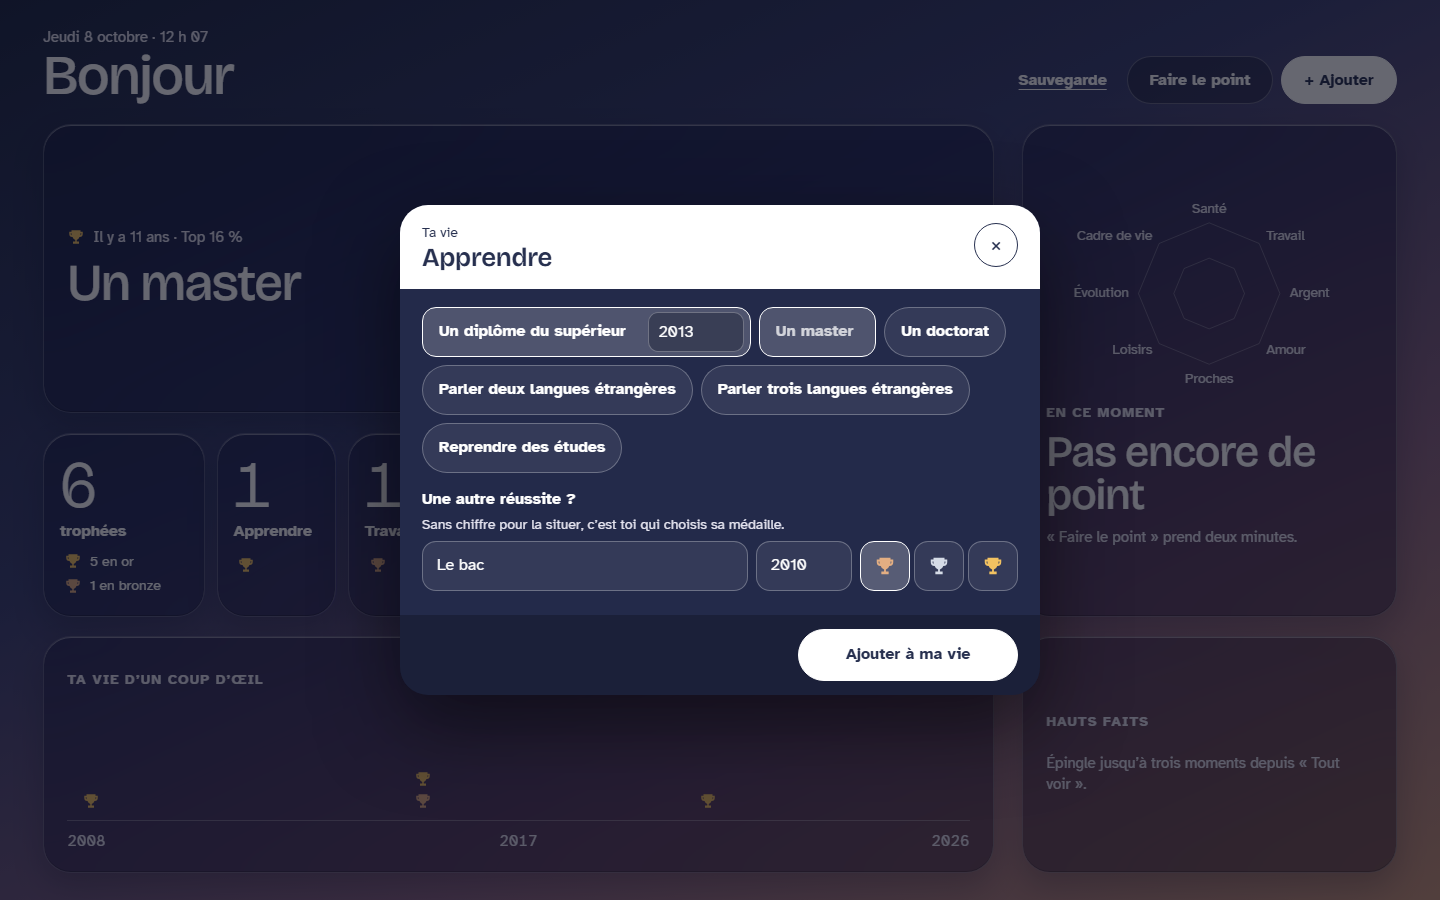
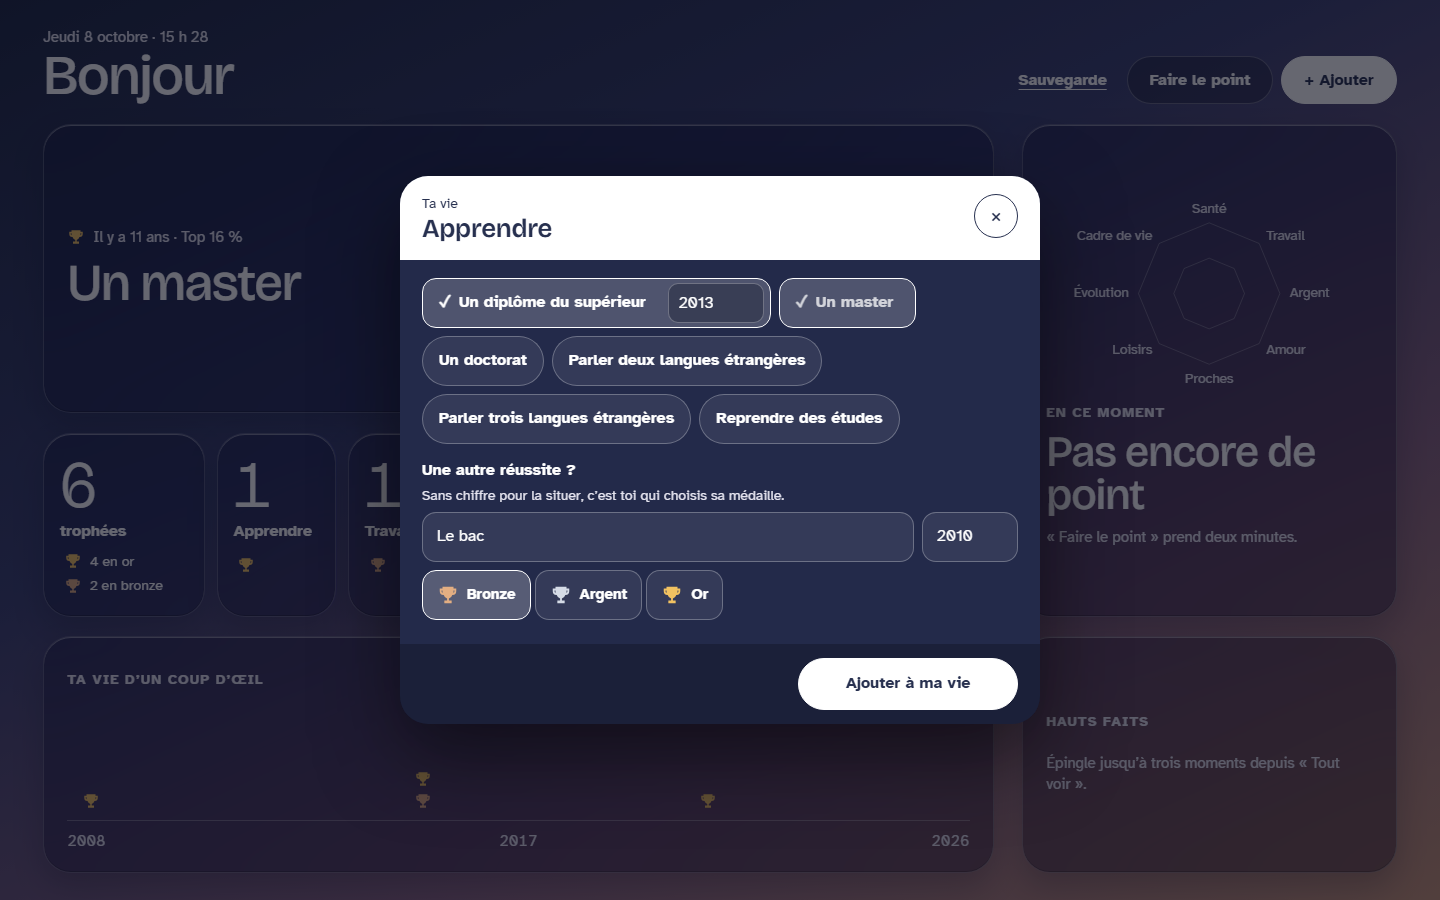
Trophées de vie : cinq corrections après le premier essai d'une utilisatrice
Une amie a essayé la page et n'a pas compris plusieurs choses.

- Les trois coupes muettes à choisir sortent du formulaire : la médaille
  proposée s'applique, et se change dans « Tout voir ». Là où l'on choisit
  encore, chaque coupe porte son nom.
- Le titre dit de tout cocher, chaque réussite choisie porte une coche et
  l'en-tête compte.
- L'année n'est demandée que pour un événement, et annoncée facultative.
- « Me relever d'un coup dur » est retiré : flou, plusieurs fois, sans date.
- Le formulaire se conclut par un bilan et dit quoi faire ensuite.

diff --git a/trophees-de-vie/js/app.js b/trophees-de-vie/js/app.js
@@ -4,10 +4,10 @@
 
 // Le numéro suit celui d'index.html : Pages garde un fichier dix minutes, et sans lui
 // un nouvel app.js pourrait charger une ancienne configuration.
-import { ouvrir, demanderPersistance } from './stockage.js?v=4';
-import { NIVEAUX, CATEGORIES, REUSSITES, CATALOGUE } from './config/vie.js?v=4';
-import { DOMAINES, METEOS, ELANS, MOIS, JOURS } from './config/domaines.js?v=4';
-import { lire, definition, rarete, medaille, dejaFaites, comptes, parCategorie, hautsFaits, ruban, souvenirDuJour, dernierPoint, pointDavant, phraseRoue } from './coeur.js?v=4';
+import { ouvrir, demanderPersistance } from './stockage.js?v=5';
+import { NIVEAUX, CATEGORIES, REUSSITES, CATALOGUE } from './config/vie.js?v=5';
+import { DOMAINES, METEOS, ELANS, MOIS, JOURS } from './config/domaines.js?v=5';
+import { lire, definition, rarete, medaille, dejaFaites, comptes, parCategorie, hautsFaits, ruban, souvenirDuJour, dernierPoint, pointDavant, phraseRoue } from './coeur.js?v=5';
 
 const NS = 'http://www.w3.org/2000/svg';
 const $ = (id) => document.getElementById(id);
@@ -255,9 +255,9 @@ document.addEventListener('keydown', (e) => { if (e.key === 'Escape' && flux) fe
 
 const anneeValide = (v) => { const n = Number(v); return v !== '' && v != null && Number.isInteger(n) && n >= 1900 && n <= an() ? n : null; };
 
-function champAnnee(id, valeur, libelle, regler) {
+function champAnnee(id, valeur, libelle, regler, invite = 'Année') {
   const a = el('input', 'field an-in');
-  a.type = 'number'; a.inputMode = 'numeric'; a.id = id; a.placeholder = 'Année'; a.value = valeur ?? '';
+  a.type = 'number'; a.inputMode = 'numeric'; a.id = id; a.placeholder = invite; a.value = valeur ?? '';
   a.setAttribute('aria-label', libelle);
   a.addEventListener('input', () => regler(a.value));
   return a;
@@ -270,8 +270,8 @@ function medailles(id, reponse) {
   niv.setAttribute('aria-label', 'La médaille que tu lui donnes');
   for (const n of NIVEAUX) {
     const b = bouton(null, null, reponse.niveau === n.id);
-    b.id = `${id}-${n.id}`; b.title = n.nom; b.setAttribute('aria-label', n.nom);
-    b.append(coupe(n.id));
+    b.id = `${id}-${n.id}`;
+    b.append(coupe(n.id), n.nom);
     b.addEventListener('click', () => { reponse.niveau = n.id; for (const o of niv.children) o.setAttribute('aria-pressed', String(o === b)); });
     niv.append(b);
   }
@@ -295,9 +295,11 @@ function question(corps, id, texte, reponse, { aide, sansNiveau } = {}) {
   corps.append(q);
 }
 
-// Des réussites à toucher. Cochée, une réussite demande l'année, et la médaille
-// seulement quand aucun chiffre ne la fixe. Déjà dans la vie, elle reste cochée.
-function puces(corps, reussites, coches, deja) {
+// Des réussites à toucher, autant qu'on veut. Cochée, une réussite ne demande que
+// l'année, et seulement si c'est un événement. Sa médaille est celle de sa rareté ou
+// celle proposée : elle se change ensuite dans « Tout voir ». Déjà dans la vie, elle
+// reste cochée.
+function puces(corps, reussites, coches, deja, quandChange) {
   const c = el('div', 'chips');
   const dessinerUne = (r) => {
     const boite = el('div', 'puce');
@@ -308,14 +310,12 @@ function puces(corps, reussites, coches, deja) {
     if (fait) { b.disabled = true; b.title = 'Déjà dans ta vie'; }
     boite.append(b);
     if (fait || reponse) boite.classList.add('on');
-    if (reponse) {
-      boite.append(champAnnee(`an-${r.id}`, reponse.annee, `Année de : ${r.titre}`, (v) => { reponse.annee = v; }));
-      if (r.rarete == null && !r.parAge) boite.append(medailles(`nv-${r.id}`, reponse));
-    }
+    if (reponse && !r.sansAnnee) boite.append(champAnnee(`an-${r.id}`, reponse.annee, `Année de : ${r.titre}, facultative`, (v) => { reponse.annee = v; }, 'Année (facultatif)'));
     b.addEventListener('click', () => {
       if (coches.has(r.id)) coches.delete(r.id); else coches.set(r.id, { annee: '', niveau: r.defaut ?? 'argent' });
       const neuve = dessinerUne(r);
       boite.replaceWith(neuve);
+      quandChange?.();
       (neuve.querySelector('input') ?? neuve.querySelector('button')).focus();
     });
     return boite;
@@ -361,7 +361,7 @@ function champNaissance(corps, saisie) {
   corps.append(q);
 }
 
-async function enregistrer(nouveaux, naissance) {
+async function enregistrer(nouveaux, naissance, avecBilan = false) {
   for (const m of nouveaux) await etat.base.ecrire('moments', m);
   const neeEn = naissance ? anneeValide(naissance.valeur) : null;
   const change = neeEn != null && neeEn !== etat.naissance;
@@ -370,8 +370,26 @@ async function enregistrer(nouveaux, naissance) {
   if (!nouveaux.length && !change) return;
   await rafraichir();
   demanderPersistance();
-  if (nouveaux.length) annoncer(nouveaux.length > 1 ? `${nouveaux.length} trophées ajoutés` : 'Trophée ajouté', `${trophees(etat.vus.length)} en tout`);
+  if (nouveaux.length && avecBilan) ouvrirBilan(nouveaux.length);
+  else if (nouveaux.length) annoncer(nouveaux.length > 1 ? `${nouveaux.length} trophées ajoutés` : 'Trophée ajouté', `${trophees(etat.vus.length)} en tout`);
   else annoncer('C’est noté', 'Tes trophées sont situés à ton âge');
+}
+
+// La clôture du formulaire : ce qu'on vient de poser, et quoi faire ensuite.
+function ouvrirBilan(ajoutes) {
+  const c = comptes(etat.vus);
+  ouvrirVolet('add', [{ label: pluriel(ajoutes, ['trophée ajouté', 'trophées ajoutés']), titre: 'C’est ta vie jusqu’ici', dessiner(corps) {
+    const b = el('div', 'bilan');
+    const leg = el('span', 'leg');
+    for (const n of [...NIVEAUX].reverse()) {
+      if (!c[n.id]) continue;
+      const i = el('span');
+      i.append(coupe(n.id), `${c[n.id]} en ${n.nom.toLowerCase()}`);
+      leg.append(i);
+    }
+    b.append(el('span', 'num', String(c.total)), el('span', 'n', c.total > 1 ? 'trophées' : 'trophée'), leg);
+    corps.append(b, el('p', 'aide', 'Ta page est à jour. Reviens-y quand il se passe quelque chose dans ta vie.'));
+  } }], 'Voir ma page', async () => fermerVolet());
 }
 
 function ouvrirAjout() {
@@ -379,19 +397,21 @@ function ouvrirAjout() {
   const coches = new Map(); // identifiant → { annee, niveau }
   const naissance = { valeur: etat.naissance ?? '' };
   const moitie = Math.ceil(CATEGORIES.length / 2);
+  const compter = () => { $('dlg-step').textContent = `Ta vie · ${flux.i + 1} sur 2${coches.size ? ` · ${pluriel(coches.size, ['cochée', 'cochées'])}` : ''}`; };
   const ecran = (cats, avecNaissance) => (corps) => {
     if (avecNaissance) champNaissance(corps, naissance);
     for (const cat of cats) {
       const g = el('div', 'groupe');
       g.append(el('h3', 'lab', cat.nom));
-      puces(g, groupe(cat), coches, deja);
+      puces(g, groupe(cat), coches, deja, compter);
       corps.append(g);
     }
+    compter();
   };
   ouvrirVolet('add', [
-    { label: 'Ta vie', titre: 'Qu’as-tu déjà fait ?', dessiner: ecran(CATEGORIES.slice(0, moitie), true) },
-    { label: 'Ta vie', titre: 'Et aussi ?', dessiner: ecran(CATEGORIES.slice(moitie), false) },
-  ], 'Ajouter à ma vie', () => enregistrer(momentsCoches(coches), naissance));
+    { label: 'Ta vie', titre: 'Coche tout ce que tu as déjà fait', dessiner: ecran(CATEGORIES.slice(0, moitie), true) },
+    { label: 'Ta vie', titre: 'Et ça aussi ?', dessiner: ecran(CATEGORIES.slice(moitie), false) },
+  ], 'Ajouter à ma vie', () => enregistrer(momentsCoches(coches), naissance, true));
 }
 
 // Une catégorie seule, ouverte depuis sa tuile.

diff --git a/trophees-de-vie/js/config/vie.js b/trophees-de-vie/js/config/vie.js
@@ -26,6 +26,8 @@ export const CATEGORIES = [
 // `parAge` : la même part selon l'âge au moment de la réussite (il faut l'année de
 // naissance) ; la dernière tranche sert quand l'âge est inconnu.
 // `defaut` : la médaille proposée quand aucun chiffre fiable n'existe.
+// `sansAnnee` : ce n'est pas un événement daté, le formulaire ne demande pas d'année
+// (« une amitié de longue date : l'année de rencontre ? », premier essai utilisatrice).
 //
 // ⚠ Les chiffres ne viennent pas tous de la même population (OCDE, Union
 // européenne, France, monde) : elle a demandé l'OCDE, et on a pris le meilleur
@@ -40,13 +42,13 @@ export const REUSSITES = [
   { id: 'doctorat', titre: 'Un doctorat', categorie: 'apprendre', rarete: 0.012 },
   // Eurobaromètre spécial 540 (2024), Union européenne : 28 % tiennent une
   // conversation dans deux langues étrangères, 11 % dans trois.
-  { id: 'langues-2', titre: 'Parler deux langues étrangères', categorie: 'apprendre', rarete: 0.28 },
-  { id: 'langues-3', titre: 'Parler trois langues étrangères', categorie: 'apprendre', rarete: 0.11 },
+  { id: 'langues-2', titre: 'Parler deux langues étrangères', categorie: 'apprendre', rarete: 0.28, sansAnnee: true },
+  { id: 'langues-3', titre: 'Parler trois langues étrangères', categorie: 'apprendre', rarete: 0.11, sansAnnee: true },
   { id: 'reprendre-etudes', titre: 'Reprendre des études', categorie: 'apprendre', defaut: 'argent' },
 
   { id: 'premier-argent', titre: 'Mon premier argent gagné', categorie: 'travailler', defaut: 'bronze' },
   { id: 'premier-emploi', titre: 'Premier emploi', categorie: 'travailler', defaut: 'bronze' },
-  { id: 'trouver-voie', titre: 'Trouver ma voie', categorie: 'travailler', defaut: 'argent' },
+  { id: 'trouver-voie', titre: 'Trouver ma voie', categorie: 'travailler', defaut: 'argent', sansAnnee: true },
   { id: 'changer-metier', titre: 'Changer de métier', categorie: 'travailler', defaut: 'argent' },
   // OCDE, « The job quality of self-employment in Europe » (2025) : 13 % des
   // personnes en emploi sont à leur compte, en Europe, en 2021.
@@ -61,7 +63,7 @@ export const REUSSITES = [
   // Insee, début 2024, France : 17,2 % des ménages de moins de 30 ans possèdent leur
   // résidence principale, 47,7 % des 30-39 ans, 57,2 % de l'ensemble des ménages.
   { id: 'proprietaire', titre: 'Acheter mon logement', categorie: 'installer', parAge: [{ avant: 30, part: 0.17 }, { avant: 40, part: 0.48 }, { part: 0.57 }] },
-  { id: 'epargne', titre: 'Mettre de l’argent de côté', categorie: 'installer', defaut: 'bronze' },
+  { id: 'epargne', titre: 'Mettre de l’argent de côté', categorie: 'installer', defaut: 'bronze', sansAnnee: true },
 
   { id: 'grand-voyage', titre: 'Un grand voyage', categorie: 'partir', defaut: 'argent' },
   { id: 'voyager-seule', titre: 'Voyager seule', categorie: 'partir', defaut: 'argent' },
@@ -72,16 +74,15 @@ export const REUSSITES = [
   { id: 'tomber-amoureuse', titre: 'Tomber amoureuse', categorie: 'aimer', defaut: 'bronze' },
   { id: 'mariage', titre: 'Me marier', categorie: 'aimer', defaut: 'bronze' },
   { id: 'enfant', titre: 'Avoir un enfant', categorie: 'aimer', defaut: 'bronze' },
-  { id: 'amis-longue-date', titre: 'Garder une amitié de longue date', categorie: 'aimer', defaut: 'argent' },
-  { id: 'amis-etre-la', titre: 'Être là pour un proche dans un moment dur', categorie: 'aimer', defaut: 'argent' },
+  { id: 'amis-longue-date', titre: 'Garder une amitié de longue date', categorie: 'aimer', defaut: 'argent', sansAnnee: true },
+  { id: 'amis-etre-la', titre: 'Être là pour un proche dans un moment dur', categorie: 'aimer', defaut: 'argent', sansAnnee: true },
 
   { id: 'nager', titre: 'Apprendre à nager', categorie: 'depasser', defaut: 'bronze' },
   { id: 'dix-km', titre: 'Courir 10 km', categorie: 'depasser', defaut: 'bronze' },
   // Aucune statistique officielle : des estimations de blogs seulement. Pas de chiffre affiché.
   { id: 'marathon', titre: 'Courir un marathon', categorie: 'depasser', defaut: 'or' },
   { id: 'arreter-fumer', titre: 'Arrêter de fumer', categorie: 'depasser', defaut: 'argent' },
-  { id: 'creer', titre: 'Montrer ce que je crée', categorie: 'depasser', defaut: 'argent' },
-  { id: 'rebondir', titre: 'Me relever d’un coup dur', categorie: 'depasser', defaut: 'argent' },
+  { id: 'creer', titre: 'Montrer ce que je crée', categorie: 'depasser', defaut: 'argent', sansAnnee: true },
 ];
 
 // Les propositions de la version 2 qui disaient la même chose sous un autre nom.

diff --git a/trophees-de-vie/css/app.css b/trophees-de-vie/css/app.css
@@ -220,3 +220,17 @@ button.cell:hover{border-color:rgba(255,255,255,.6)}
 .cell{padding-inline:clamp(12px,1.1vw,22px)}
 .cell .num{font-size:clamp(40px,4.6vw,76px)}
 @media (max-width:900px){ .ax{grid-template-columns:repeat(2,minmax(0,1fr))} }
+
+/* Premier essai par une vraie utilisatrice (v5) */
+/* une réussite cochée porte une coche : on voit qu'on peut en choisir plusieurs */
+.puce.on .puce-t::before{content:"✓";margin-right:8px}
+.puce input{width:164px}
+/* là où l'on choisit encore la médaille, chaque coupe porte son nom */
+.niv{flex-wrap:wrap}
+.niv button,.puce .niv button{width:auto;height:50px;padding:0 14px;display:flex;align-items:center;gap:8px;font-size:15px;font-weight:700}
+/* la clôture du formulaire */
+.bilan{display:grid;justify-items:center;gap:6px;padding:8px 0 4px;text-align:center}
+.bilan .num{font:300 104px/1 var(--display);letter-spacing:-.02em;font-variant-numeric:tabular-nums}
+.bilan .n{font-weight:700}
+.bilan .leg{justify-content:center;font-size:16px;margin-top:8px;padding:0}
+.bilan + .aide{text-align:center;font-size:16px}

diff --git a/trophees-de-vie/index.html b/trophees-de-vie/index.html
@@ -8,7 +8,7 @@
 <meta name="theme-color" content="#1F2A44">
 <link rel="icon" href="icone.svg" type="image/svg+xml">
 <link rel="preload" href="polices/bricolage.woff2" as="font" type="font/woff2" crossorigin>
-<link rel="stylesheet" href="css/app.css?v=4">
+<link rel="stylesheet" href="css/app.css?v=5">
 </head>
 <body>
 <div class="page">
@@ -54,6 +54,6 @@
 </div>
 <div class="toast" id="toast" role="status" aria-live="polite"></div>
 
-<script type="module" src="js/app.js?v=4"></script>
+<script type="module" src="js/app.js?v=5"></script>
 </body>
 </html>
